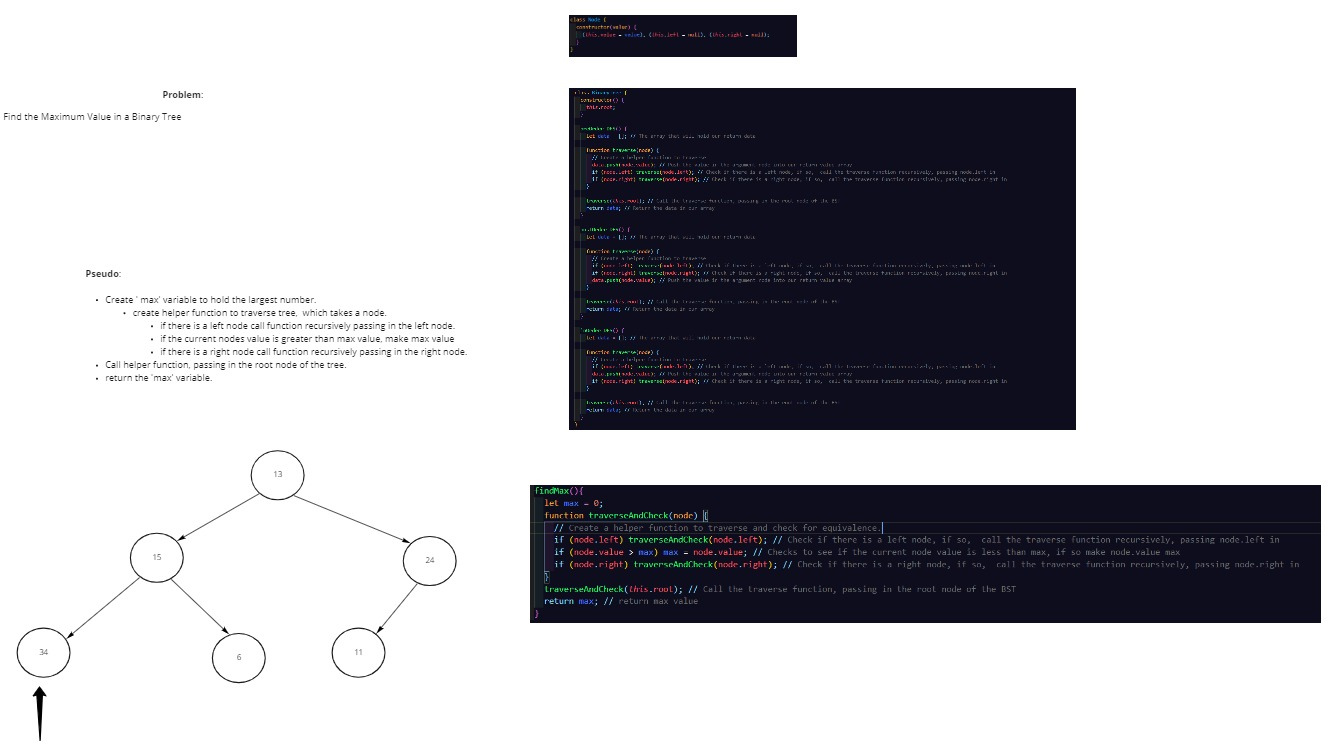
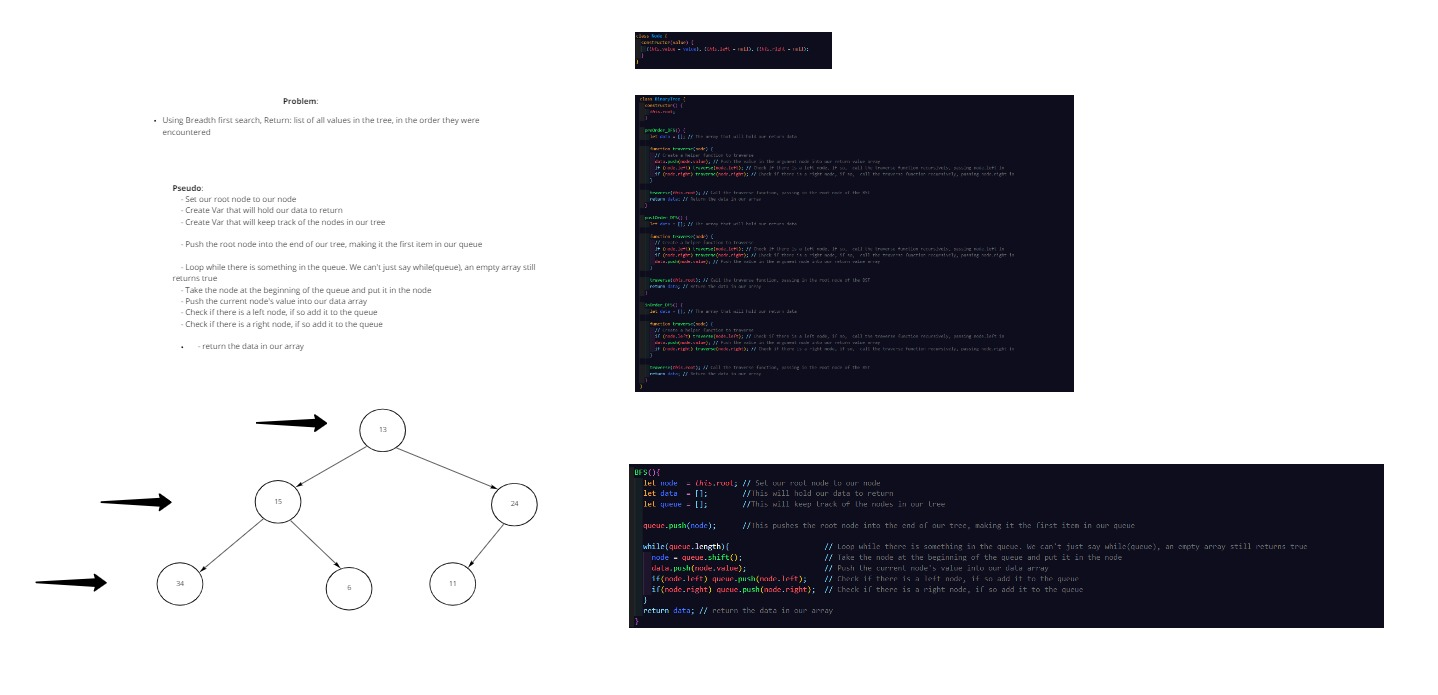
add readme

diff --git a/javascript/javascript-tree-breadth-first/README.md b/javascript/javascript-tree-breadth-first/README.md
@@ -4,13 +4,20 @@
 - Find the Maximum Value in a Binary Tree
 
 ## Pseudo:
-  - Create ' max' variable to hold the largest number.
-      - create helper function to traverse tree,  which takes a node.
-        - if there is a left node call function recursively passing in the left node.
-        - if the current nodes value is greater than max value, make max value
-        - if there is a right node call function recursively passing in the right node.
-  - Call helper function, passing in the root node of the tree.
-  - return the 'max' variable.
+
+    - Set our root node to our node
+    - Create Var that will hold our data to return
+    - Create Var that will keep track of the nodes in our tree
+    
+    - Push the root node into the end of our tree, making it the first item in our queue
+    
+    - Loop while there is something in the queue. We can't just say while(queue), an empty array still returns true
+    - Take the node at the beginning of the queue and put it in the node
+    - Push the current node's value into our data array
+    - Check if there is a left node, if so add it to the queue
+    - Check if there is a right node, if so add it to the queue
+
+    - return the data in our array
 
  ---
 
